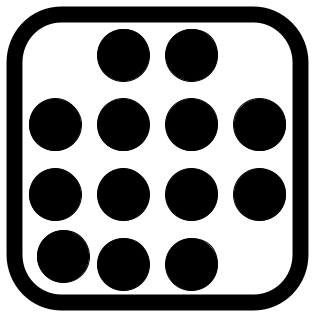
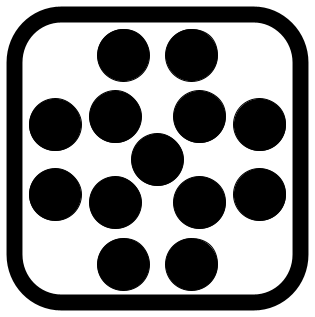
bgcolor, footer color, button fixing

diff --git a/index.html b/index.html
@@ -2,8 +2,9 @@
     <title>dice</title>
     <link rel="icon" href="../images/icon.png">
     <link rel="stylesheet" href="../style.css">
+    <link href="https://fonts.googleapis.com/css2?family=Roboto:wght@400;700&display=swap" rel="stylesheet">
 </head>
-<body>
+<body style="background-color: #273b27;">
     <header>
         <table style="width: 100%;"><tr>
             <td>
@@ -41,46 +42,47 @@
     </aside>
 
     <main>
+        <>
         <div class= "centerdiv">
-            <button class = "bigbutton">Edit Die</button>
+            <button class = "bigbutton"><b>Edit Die</b></button>
             &nbsp;&nbsp;&nbsp;
-            <button class= "bigbutton">Challenge</button>
+            <button class= "bigbutton"><b>Challenge</b></button>
         </div>
         <br><br><br>
 
         <!--pain and suffering, generally-->
         <div class = "centerdiv">
-            <table style = "width: 50%;"><tr>
+            <table style = "width: 60%;"><tr>
                 <td style = "width: 50%;" class = "centerdiv">
                     <table class = "center" style = "margin: auto;">
                         <tr>
                             <td></td>
-                            <td>
+                            <td style="background-color: purple;">
                                 <img src = "../images/dice_faces/1.png" class = "fill">
                             </td>
                             <td></td>
                         </tr>
                         <tr>
-                            <td>
+                            <td style="background-color: green;">
                                 <img src = "../images/dice_faces/3.png" class = "fill">
                             </td>
-                            <td>
+                            <td style="background-color: red;">
                                 <img src = "../images/dice_faces/2.png" class = "fill">
                             </td>
-                            <td>
+                            <td style="background-color: yellow;">
                                 <img src = "../images/dice_faces/4.png" class = "fill">
                             </td>
                         </tr>
                         <tr>
                             <td></td>
-                            <td>
+                            <td style="background-color: orange">
                                 <img src = "../images/dice_faces/6.png" class = "fill">
                             </td>
                             <td></td>
                         </tr>
                         <tr>
                             <td></td>
-                            <td>
+                            <td style="background-color: blue;">
                                 <img src = "../images/dice_faces/5.png" class = "fill">
                             </td>
                             <td></td>
@@ -116,7 +118,8 @@
 
     </main>
 
-    <footer style="position: fixed; bottom: 0; left: 0; width: 100%;">
+    <footer style="position: fixed; bottom: 0; left: 0; width: 100%;
+                background-color: tan;">
         <table style="width: 100%;"><tr>
             <td style="width: 50%;">
                 Author(s): Brayden Dickerson

diff --git a/style.css b/style.css
@@ -39,6 +39,10 @@ td.centertablecell {
 button.bigbutton {
     height: 50px;
     width: 200px;
+    border-radius: 20px;
+    border-width: 5px;
+    background-color: #7ab67b;
+    font-family: 'Roboto';
 }
 
 aside.notifpanel {
